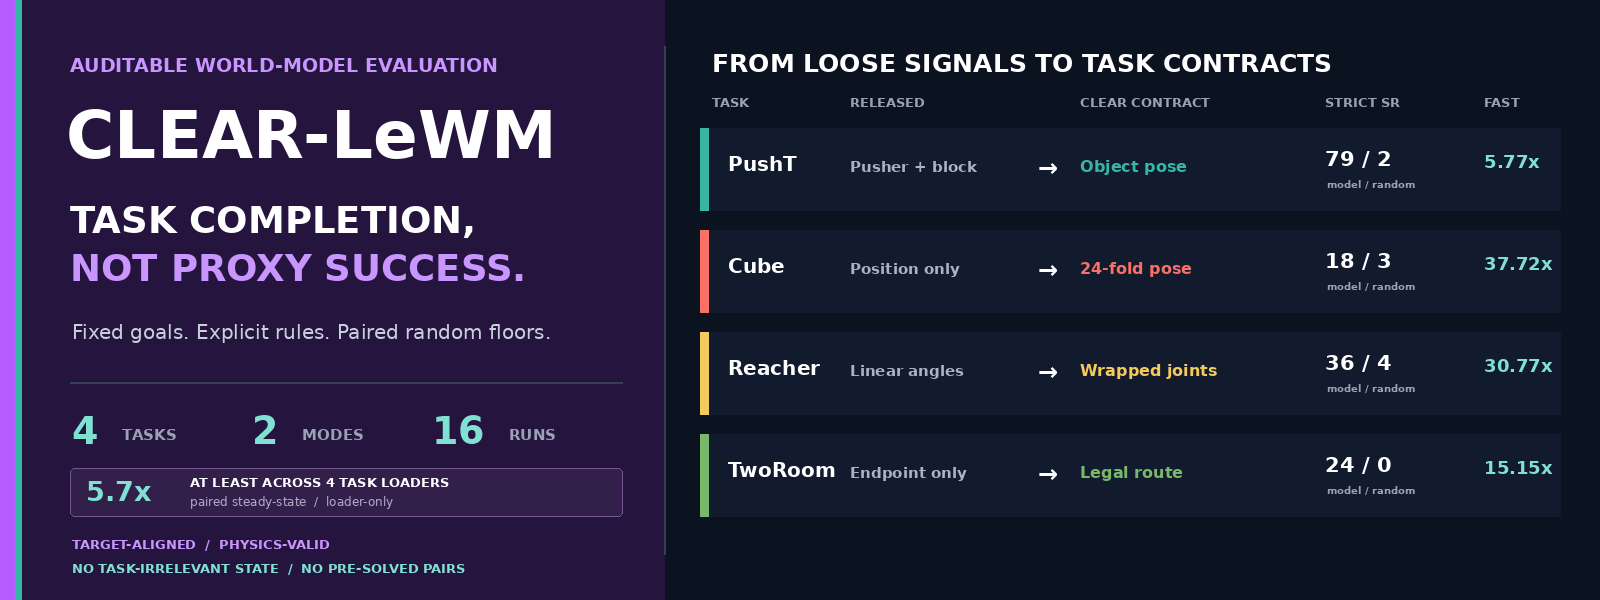
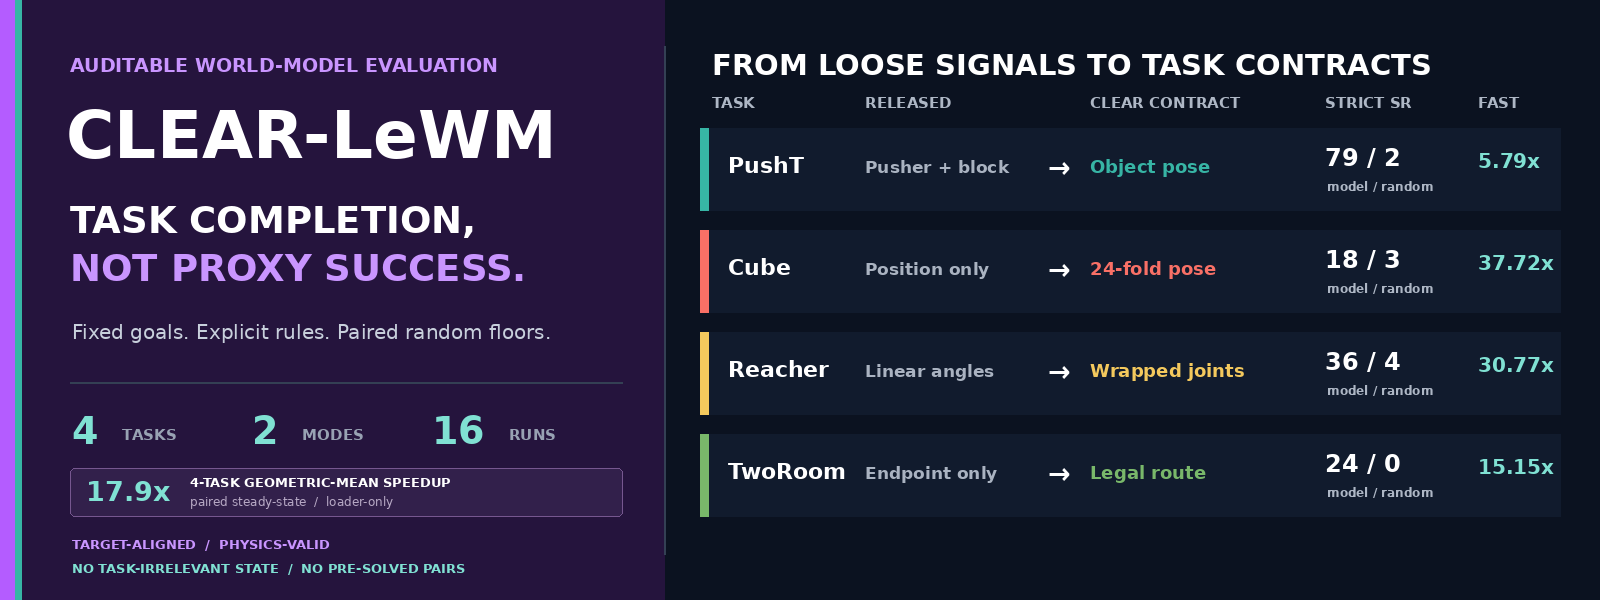
perf: confirm PushT FAST speedup

diff --git a/index.html b/index.html
@@ -78,7 +78,7 @@
             <div><dt>4</dt><dd>task contracts</dd></div>
             <div><dt>2</dt><dd>difficulty modes</dd></div>
             <div><dt>16</dt><dd>audited v0.3 runs</dd></div>
-            <div class="hero-fast-fact"><dt>5.7×+</dt><dd><a href="#performance">all four loaders</a></dd></div>
+            <div class="hero-fast-fact"><dt>17.9×</dt><dd><a href="#performance">4-task avg.</a></dd></div>
           </dl>
         </div>
       </section>
@@ -137,16 +137,16 @@
         <div class="page-shell fast-grid">
           <div>
             <p class="section-label">Audited training I/O</p>
-            <h2 id="performance-title"><span>At least 5.7×</span> across all four task loaders.</h2>
+            <h2 id="performance-title"><span>17.87×</span> geometric-mean loader speedup.</h2>
           </div>
           <p>
             The generic FAST path decodes once into verified row-major memory maps while preserving
-            episode boundaries and complete action chunks. Five paired steady-state rounds ran
-            serially after conversion; all exact-equivalence audits passed. Figures are loader-only.
+            episode boundaries and complete action chunks. Five to ten paired steady-state rounds
+            ran serially after conversion; all exact-equivalence audits passed. Figures are loader-only.
           </p>
           <a href="https://github.com/DavidSunok/CLEAR-LeWM/blob/main/PERFORMANCE.md">Read the performance audit</a>
           <div class="fast-task-rates" aria-label="FAST loader throughput by task">
-            <div><span>PushT · Lance</span><strong>5.77×</strong><small>711 → 4027 samples/s</small></div>
+            <div><span>PushT · Lance</span><strong>5.79×</strong><small>672 → 3812 samples/s</small></div>
             <div><span>Cube · HDF5</span><strong>37.72×</strong><small>120 → 4427 samples/s</small></div>
             <div><span>Reacher · HDF5</span><strong>30.77×</strong><small>143 → 4362 samples/s</small></div>
             <div><span>TwoRoom · HDF5</span><strong>15.15×</strong><small>279 → 4291 samples/s</small></div>
@@ -277,7 +277,7 @@
               <img src="assets/task_gifs/pusht.gif" loading="lazy" alt="PushT trace showing the block pose metric over time">
               <div class="task-body">
                 <p class="task-index">01 / PushT</p>
-                <div class="task-fast"><strong>5.77×</strong><span>FAST loader vs Lance</span></div>
+                <div class="task-fast"><strong>5.79×</strong><span>FAST loader vs Lance</span></div>
                 <h3>Score the T-block, not the pusher.</h3>
                 <p>Object pose, angular error, displacement, and temporal hold determine success. The pusher endpoint is task-irrelevant.</p>
                 <a href="https://github.com/DavidSunok/CLEAR-LeWM/blob/main/docs/tasks/PUSHT.md">Read the task contract</a>

diff --git a/scripts/build_readme_showcase.py b/scripts/build_readme_showcase.py
@@ -4,9 +4,9 @@
 from __future__ import annotations
 
 import json
-import math
 from functools import cache
 from pathlib import Path
+from statistics import geometric_mean
 
 from PIL import Image, ImageDraw, ImageFont, ImageOps
 
@@ -39,9 +39,8 @@ def _fast_speedup(task: str) -> float:
     return float(_fast_report(task)["paired_speedup_median"])
 
 
-def _fast_floor() -> float:
-    minimum = min(_fast_speedup(task) for task in TASKS)
-    return math.floor(minimum * 10) / 10
+def _fast_geomean() -> float:
+    return geometric_mean(_fast_speedup(task) for task in TASKS)
 
 
 def _font(size: int, bold: bool = False):
@@ -116,13 +115,13 @@ def _draw_hero() -> None:
     )
     draw.text(
         (86, 475),
-        f"{_fast_floor():.1f}x",
+        f"{_fast_geomean():.1f}x",
         fill="#80E1D3",
         font=_font(27, True),
     )
     draw.text(
         (190, 474),
-        "AT LEAST ACROSS 4 TASK LOADERS",
+        "4-TASK GEOMETRIC-MEAN SPEEDUP",
         fill="#FFFFFF",
         font=_font(13, True),
     )
@@ -150,17 +149,17 @@ def _draw_hero() -> None:
         (712, 48),
         "FROM LOOSE SIGNALS TO TASK CONTRACTS",
         fill="#FFFFFF",
-        font=_font(25, True),
+        font=_font(29, True),
     )
     headers = (
         (712, "TASK"),
-        (850, "RELEASED"),
-        (1080, "CLEAR CONTRACT"),
+        (865, "RELEASED"),
+        (1090, "CLEAR CONTRACT"),
         (1325, "STRICT SR"),
-        (1484, "FAST"),
+        (1478, "FAST"),
     )
     for x, label in headers:
-        draw.text((x, 94), label, fill="#98A2B3", font=_font(13, True))
+        draw.text((x, 94), label, fill="#AEB7C5", font=_font(15, True))
 
     old_rules = {
         "pusht": "Pusher + block",
@@ -182,40 +181,40 @@ def _draw_hero() -> None:
             (728, y + 24),
             TASK_LABELS[task],
             fill="#FFFFFF",
-            font=_font(20, True),
+            font=_font(22, True),
         )
         draw.text(
-            (850, y + 30),
+            (865, y + 29),
             old_rules[task],
             fill="#AAB3C1",
-            font=_font(15, True),
+            font=_font(17, True),
         )
-        draw.text((1038, y + 25), "→", fill="#FFFFFF", font=_font(24, True))
+        draw.text((1048, y + 23), "→", fill="#FFFFFF", font=_font(27, True))
         draw.text(
-            (1080, y + 29),
+            (1090, y + 28),
             clear_rules[task],
             fill=TASK_COLORS[task],
-            font=_font(16, True),
+            font=_font(18, True),
         )
         model = _success_rate(task, "strict", "official-lewm")
         random = _success_rate(task, "strict", "random")
         draw.text(
-            (1325, y + 18),
+            (1325, y + 15),
             f"{model:.0f} / {random:.0f}",
             fill="#FFFFFF",
-            font=_font(21, True),
+            font=_font(24, True),
         )
         draw.text(
-            (1327, y + 50),
+            (1327, y + 51),
             "model / random",
-            fill="#98A2B3",
-            font=_font(10, True),
+            fill="#AEB7C5",
+            font=_font(12, True),
         )
         draw.text(
-            (1484, y + 23),
+            (1478, y + 21),
             f"{_fast_speedup(task):.2f}x",
             fill="#80E1D3",
-            font=_font(18, True),
+            font=_font(20, True),
         )
 
     output = ASSETS / "readme_hero_v03_fast.png"

diff --git a/PERFORMANCE.md b/PERFORMANCE.md
@@ -68,23 +68,26 @@ writes were already complete; tasks ran serially, and Source/FAST order
 alternated within each task. Each backend ran in a fresh subprocess with
 `num_steps=4`, `frameskip=5`, batch size 32, zero workers, three in-process
 warm-up batches, 30 measured batches, and no image transform or model compute.
-One complete fixed-index pair was discarded to prime the OS page cache, then
-five fixed-seed pairs were measured. Speedup is the median of the five paired
-FAST/Source ratios.
+Cube, Reacher, and TwoRoom discard one complete fixed-index pair to prime the
+OS page cache, then measure five fixed-seed pairs. A confirmatory PushT rerun
+uses two discarded priming pairs and ten measured pairs. Speedup is each task's
+median paired FAST/Source ratio.
 
 | Task | Source reader | Source samples/s | FAST samples/s | Paired speedup | Source / FAST CV |
 |---|---|---:|---:|---:|---:|
-| PushT | Lance | 711.4 | 4026.8 | **5.77x** | 0.070 / 0.069 |
+| PushT | Lance | 672.3 | 3812.0 | **5.79x** | 0.074 / 0.078 |
 | Cube | HDF5 | 119.5 | 4426.5 | **37.72x** | 0.029 / 0.069 |
 | Reacher | HDF5 | 143.0 | 4362.1 | **30.77x** | 0.007 / 0.068 |
 | TwoRoom | HDF5 | 279.2 | 4291.4 | **15.15x** | 0.025 / 0.020 |
 
-The conservative cross-task statement is therefore **at least 5.7x
-steady-state loader throughput**. The larger HDF5 ratios measure removal of
-random row access and repeated image decoding. They are loader-only results,
-not claims of 15-38x end-to-end training speedup. Snapshot conversion time is
-also excluded; conversion is a one-time preprocessing cost whose throughput is
-sensitive to concurrent writes and storage bandwidth.
+Across the four paired task speedups, the **geometric mean is 17.87x** and the
+arithmetic mean is 22.36x. CLEAR-LeWM uses the geometric mean as its headline
+aggregate because ratios combine multiplicatively across heterogeneous
+benchmarks. The larger HDF5 ratios measure removal of random row access and
+repeated image decoding. They are loader-only results, not claims of 15-38x
+end-to-end training speedup. Snapshot conversion time is also excluded;
+conversion is a one-time preprocessing cost whose throughput is sensitive to
+concurrent writes and storage bandwidth.
 
 ### Historical PushT observations
 

diff --git a/README.md b/README.md
@@ -19,8 +19,8 @@
 </p>
 
 <p align="center">
-  <a href="PERFORMANCE.md"><strong>FAST training I/O: at least 5.7× loader throughput across all four tasks</strong></a><br>
-  <sub>5.77× PushT · 37.72× Cube · 30.77× Reacher · 15.15× TwoRoom · exact source-equivalence audits</sub>
+  <a href="PERFORMANCE.md"><strong>FAST training I/O: 17.87× geometric-mean loader speedup across four tasks</strong></a><br>
+  <sub>5.79× PushT · 37.72× Cube · 30.77× Reacher · 15.15× TwoRoom · exact source-equivalence audits</sub>
 </p>
 
 <p align="center">
@@ -147,7 +147,7 @@ in [`EVALUATION_SPEC.md`](EVALUATION_SPEC.md).
 
 **Success belongs to the object.**
 
-> **FAST input: 5.77x loader throughput vs Lance.** Exact-audited pixels,
+> **FAST input: 5.79x loader throughput vs Lance.** Exact-audited pixels,
 > action chunks, proprio, state, and episode boundaries.
 
 The released predicate includes both pusher and block position. A correctly
@@ -336,16 +336,17 @@ equivalence against the source reader.
 
 | Training input | Source samples/s | FAST samples/s | Paired speedup |
 |---|---:|---:|---:|
-| PushT / Lance | 711.4 | 4026.8 | **5.77x** |
+| PushT / Lance | 672.3 | 3812.0 | **5.79x** |
 | Cube / HDF5 | 119.5 | 4426.5 | **37.72x** |
 | Reacher / HDF5 | 143.0 | 4362.1 | **30.77x** |
 | TwoRoom / HDF5 | 279.2 | 4291.4 | **15.15x** |
 
-The conservative headline is **at least 5.7x steady-state loader throughput
-across all four tasks**. These numbers exclude one-time conversion and model
-compute. A separate historical PushT run observed **1.8x end-to-end training
-throughput**; development CEM batch 16 observed **1.49x evaluation throughput**
-but changes planner trajectories and is never used for published tables.
+The four-task aggregate is **17.87x geometric-mean steady-state loader
+speedup**; the arithmetic mean is 22.36x. These numbers exclude one-time
+conversion and model compute. A separate historical PushT run observed **1.8x
+end-to-end training throughput**; development CEM batch 16 observed **1.49x
+evaluation throughput** but changes planner trajectories and is never used for
+published tables.
 
 Batch 16 is faster but not numerically equivalent. Published reference tables
 and model selection stay at batch 1. Full measurements and negative results are

diff --git a/benchmarks/README.md b/benchmarks/README.md
@@ -5,8 +5,9 @@ These machine-readable records support the measurements in
 
 - `fast_audit_{pusht,cube,reacher,tworoom}_20260723.json`: exact
   source-equivalence audits for all four named FAST training profiles.
-- `fast_loader_{pusht,cube,reacher,tworoom}_20260723.json`: five-pair,
-  steady-state Source/FAST loader throughput after an untimed priming pair.
+- `fast_loader_{pusht,cube,reacher,tworoom}_20260723.json`: paired,
+  steady-state Source/FAST loader throughput after untimed priming. PushT is a
+  ten-pair confirmation; the other task reports contain five measured pairs.
 - `fast_audit_pusht_20260721.json`: earlier corrected PushT snapshot audit.
 - `fast_loader_pusht_20260721.json`: earlier H20-3 Lance/FAST throughput.
 - `cem_batch_pusht_20260721.json`: official and throughput-mode CEM batch sweep.